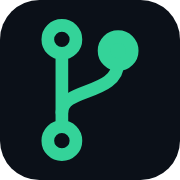
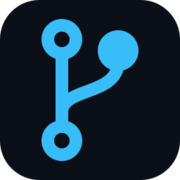
fix(theme): unify color system into single azure palette and eliminate green-blue color clash

diff --git a/src/index.css b/src/index.css
@@ -325,9 +325,9 @@ button:disabled {
   gap: var(--space-xs);
   padding: var(--space-xs) var(--space-md);
   border-radius: var(--radius-pill);
-  background-color: var(--color-emerald-wash);
-  border: var(--rule-hair) solid var(--color-emerald);
-  color: var(--color-emerald);
+  background-color: var(--color-accent-wash);
+  border: var(--rule-hair) solid var(--color-accent);
+  color: var(--color-accent);
   font-size: var(--text-xs);
   font-weight: 600;
   margin-bottom: var(--space-md);
@@ -337,7 +337,7 @@ button:disabled {
   width: var(--space-xs);
   height: var(--space-xs);
   border-radius: 50%;
-  background-color: var(--color-emerald);
+  background-color: var(--color-accent);
 }
 
 .hero-title {
@@ -422,7 +422,7 @@ button:disabled {
 }
 
 .highlight-val {
-  color: var(--color-emerald);
+  color: var(--color-accent);
   font-weight: 600;
 }
 
@@ -874,7 +874,7 @@ button:disabled {
 }
 
 .journey-date {
-  color: var(--color-emerald);
+  color: var(--color-accent);
   font-weight: 600;
 }
 
@@ -966,7 +966,7 @@ button:disabled {
   width: 100%;
   max-width: 860px;
   display: block;
-  /* Invert empty bright cells to deep slate while preserving azure/emerald hue */
+  /* Invert empty bright cells to deep slate while preserving azure hue */
   filter: invert(0.92) hue-rotate(180deg) brightness(0.9) contrast(1.15);
   border-radius: var(--radius-inner);
 }
@@ -1173,7 +1173,7 @@ button:disabled {
 }
 
 .footer-right {
-  color: var(--color-emerald);
+  color: var(--color-accent);
   font-weight: 600;
 }
 

diff --git a/src/tokens.css b/src/tokens.css
@@ -69,7 +69,7 @@
   --color-rule: oklch(26% 0.025 245);
   --color-rule-2: oklch(34% 0.03 245);
 
-  /* Primary Accent: Azure */
+  /* Primary Accent: Engineering Azure */
   --color-accent: oklch(74% 0.15 225);
   --color-accent-hover: oklch(80% 0.14 225);
   --color-accent-ink: oklch(15% 0.05 225);
@@ -82,10 +82,6 @@
   --color-btn-primary-hover: oklch(38% 0.22 255);
   --color-btn-primary-text: oklch(99% 0.002 240);
   --color-btn-primary-border: oklch(52% 0.2 255);
-
-  /* Status Emerald */
-  --color-emerald: oklch(76% 0.16 155);
-  --color-emerald-wash: oklch(24% 0.04 155);
 
   /* Surfaces & Overlays */
   --color-header-bg: oklch(14% 0.02 245);
